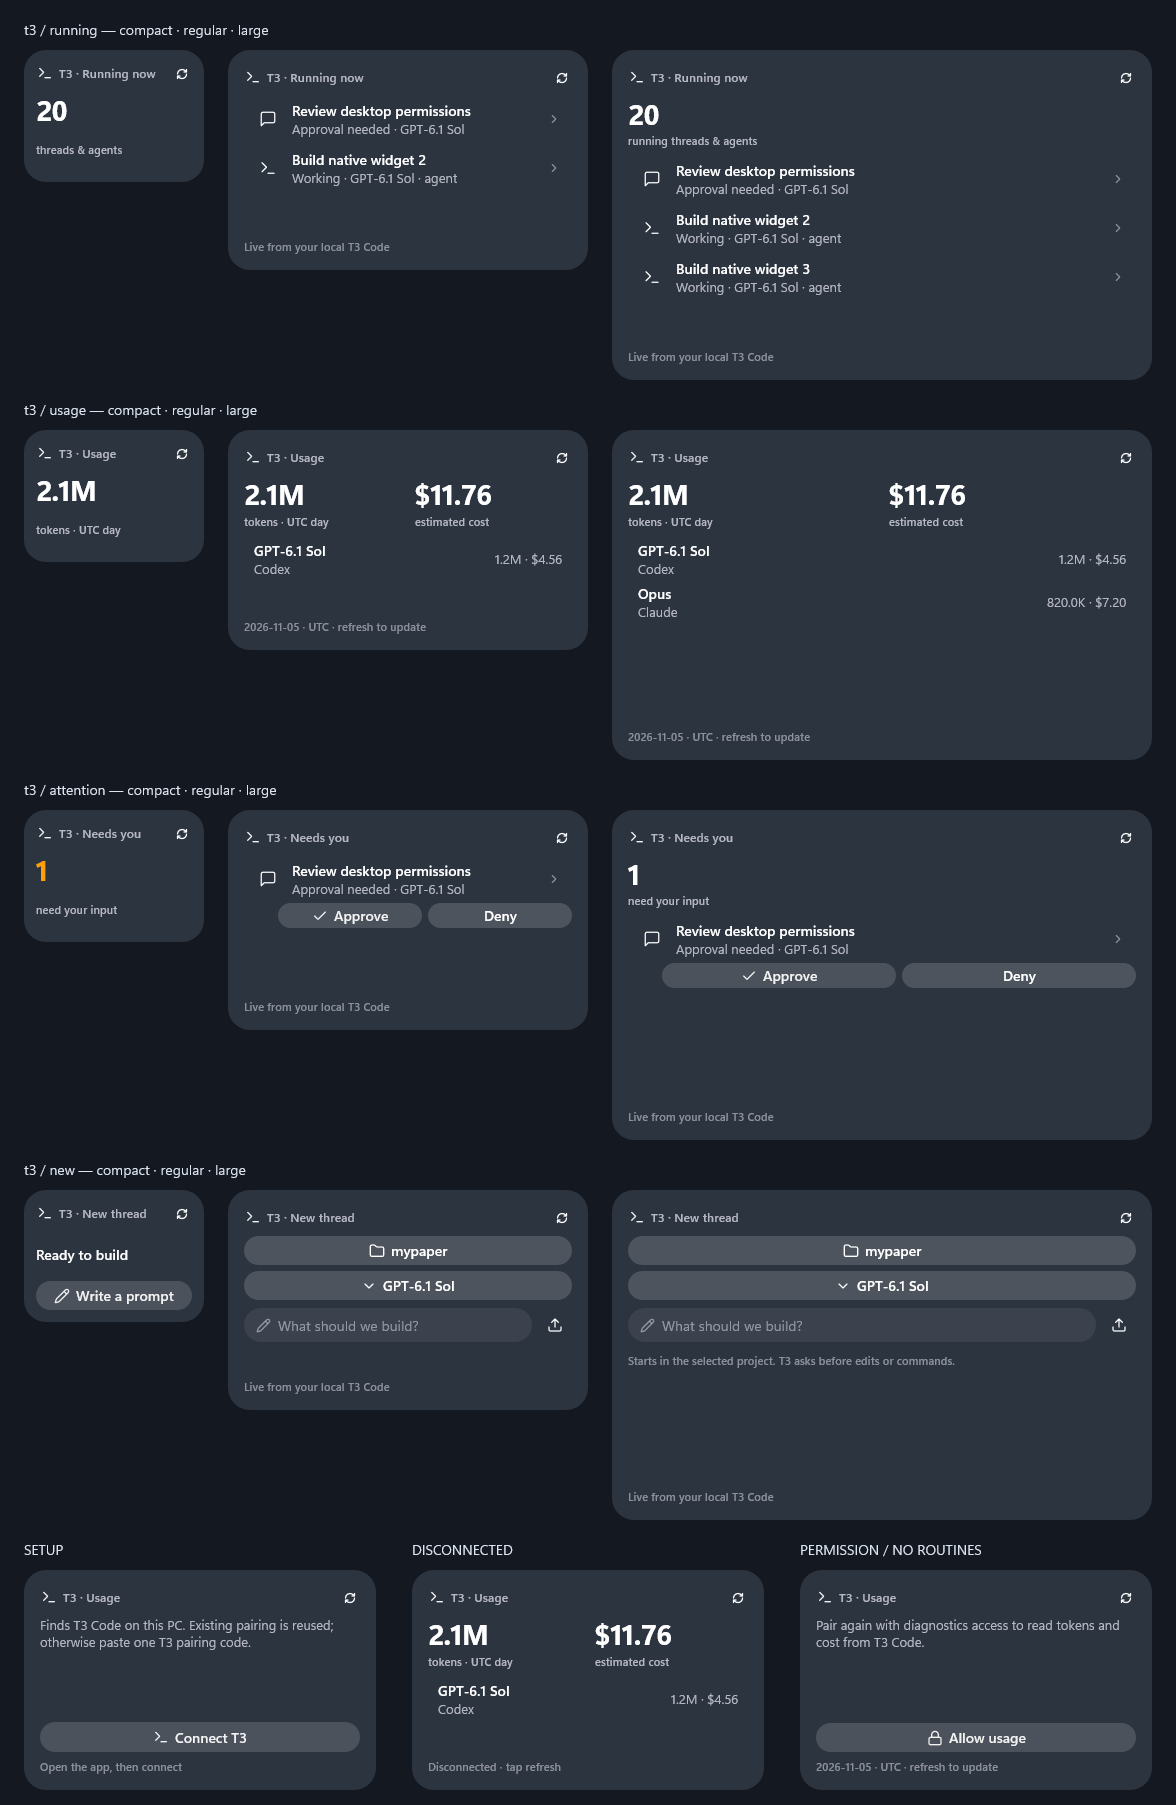
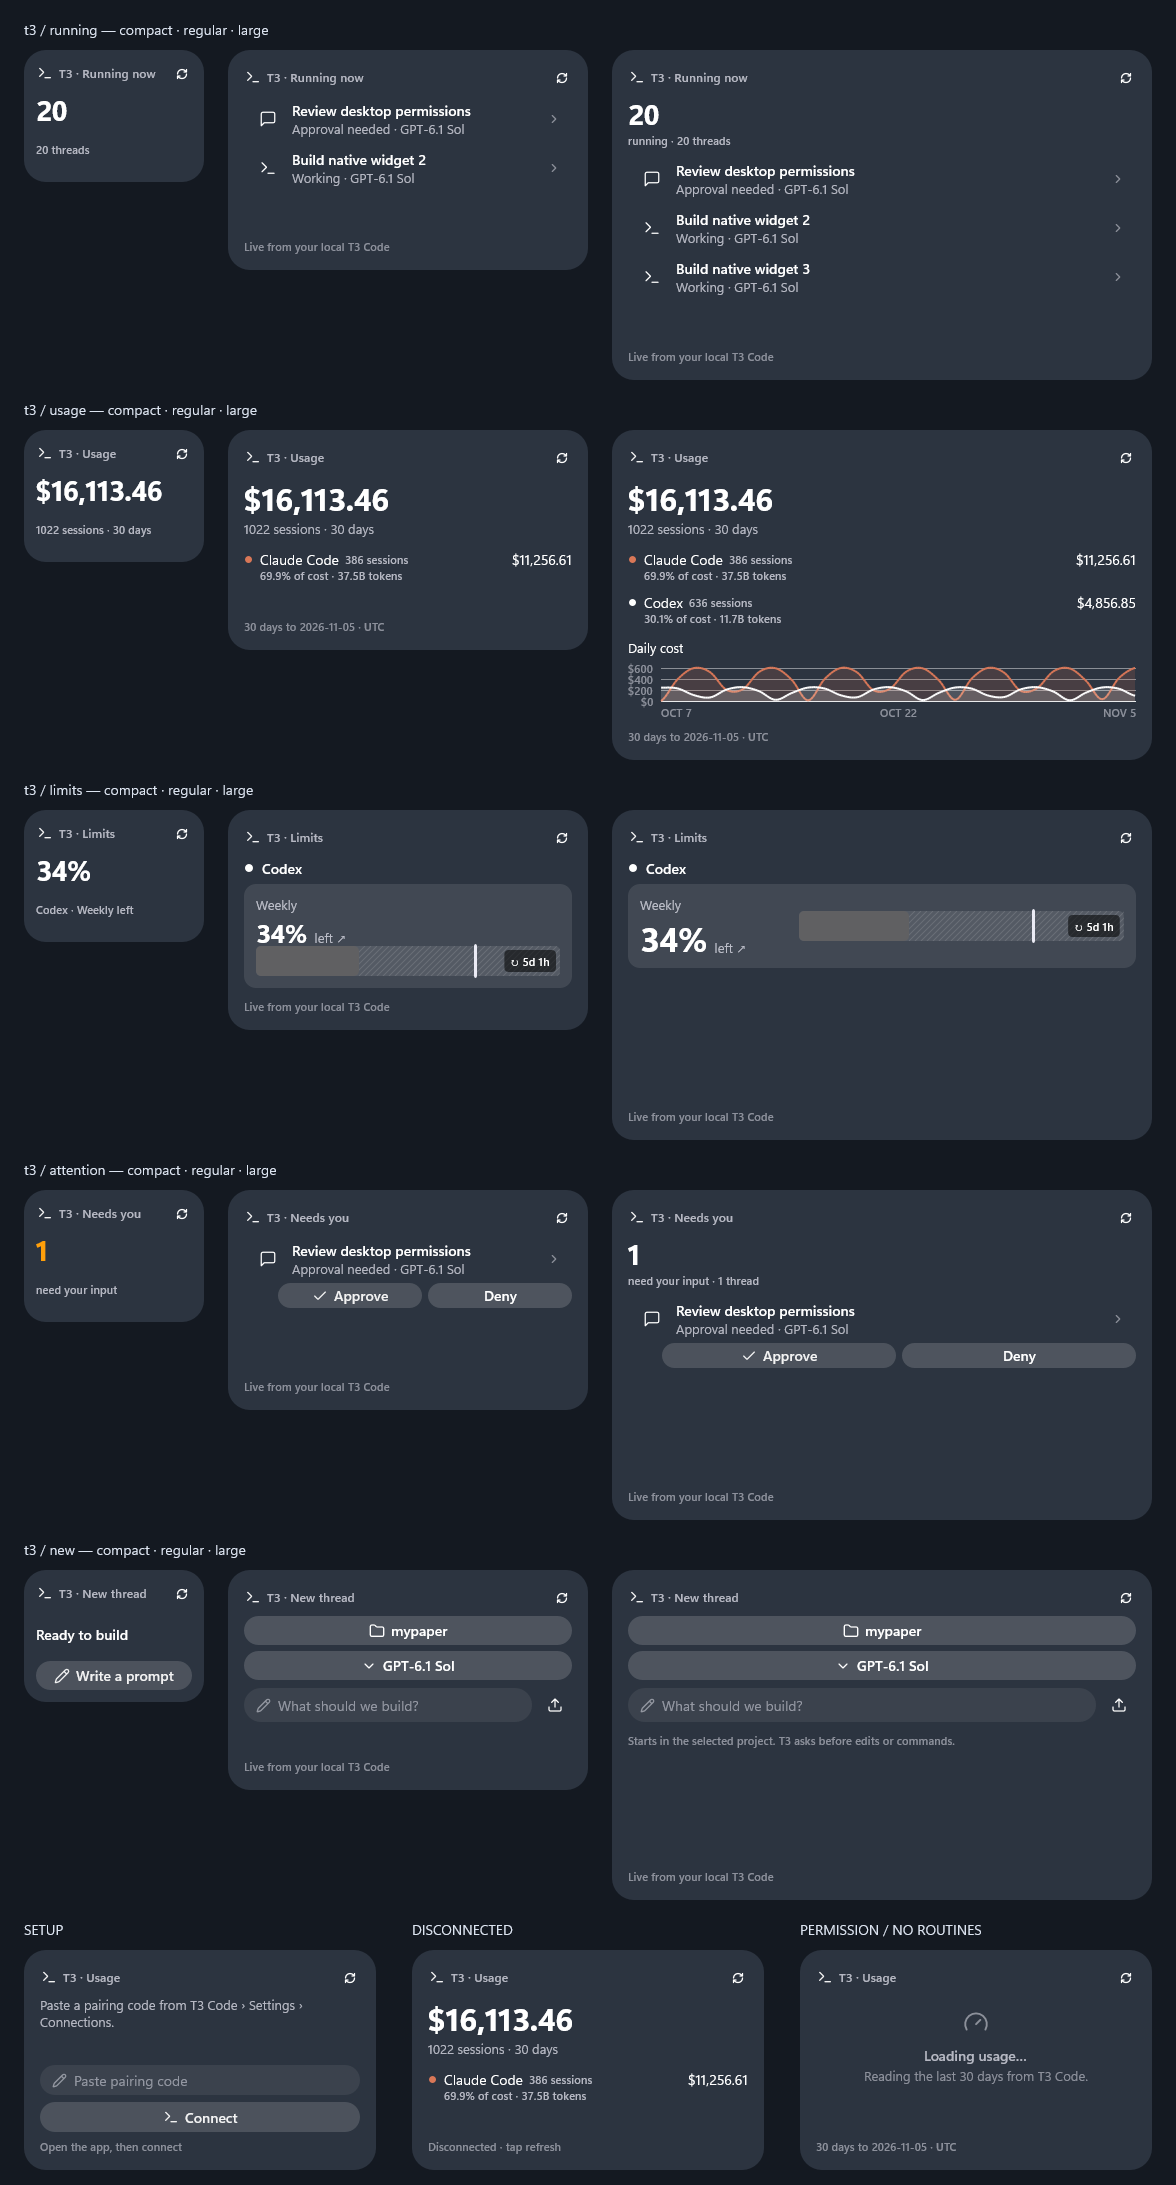
test(t3): sheet covers Usage with 30-day history and the Limits face; usage list stops above the footer

diff --git a/crates/shell/src/widgets/views/integrations/t3_tests.rs b/crates/shell/src/widgets/views/integrations/t3_tests.rs
@@ -101,6 +101,17 @@ fn fixture(id: &str, variant: &str) -> Model {
                     },
                 ]),
                 usage_day: Some("2026-11-05".into()),
+                history: Some(history()),
+                limits: vec![t3::Limit {
+                    driver: "codex".into(),
+                    provider: "Codex".into(),
+                    instance: "codex".into(),
+                    account: "alex@example.test".into(),
+                    window: "Weekly".into(),
+                    used_permille: 660,
+                    resets_at: Some("2026-11-10T12:00:00.000Z".into()),
+                    duration_mins: Some(7 * 24 * 60),
+                }],
                 ..Default::default()
             }))
         } else {
@@ -146,6 +157,42 @@ fn fixture(id: &str, variant: &str) -> Model {
         ];
     }
     model
+}
+
+/// 30 days of two providers' cost and tokens, shaped like a real usage summary.
+fn history() -> t3::History {
+    let days: Vec<String> = (7..=31)
+        .map(|d| format!("2026-10-{d:02}"))
+        .chain((1..=5).map(|d| format!("2026-11-{d:02}")))
+        .collect();
+    let wave = |phase: f64, scale: f64| -> Vec<u64> {
+        (0..30)
+            .map(|i| ((f64::from(i) * 0.7 + phase).sin().abs() * scale) as u64)
+            .collect()
+    };
+    t3::History {
+        days,
+        providers: vec![
+            t3::ProviderHistory {
+                provider: "claudeAgent".into(),
+                cost: wave(0.0, 600_000_000.0),
+                tokens: wave(0.0, 2_000_000_000.0),
+                sessions: 386,
+            },
+            t3::ProviderHistory {
+                provider: "codex".into(),
+                cost: wave(1.3, 250_000_000.0),
+                tokens: wave(1.3, 600_000_000.0),
+                sessions: 636,
+            },
+        ],
+        uncached: 261_000_000,
+        cached: 72_300_000_000,
+        cache_write: 685_000_000,
+        output: 201_000_000,
+        savings_microusd: 271_003_400_000,
+        cost_by_type: [0; 4],
+    }
 }
 
 fn draw(ui: &mut Ui, model: &Model, size: (u32, u32), scale: f32) -> DisplayList {
@@ -231,6 +278,7 @@ fn sheet(ui: &mut Ui, id: &str, variants: &[&str]) -> Image {
         } else {
             if let Some(Data::T3(state)) = &mut m.integration.snapshot.data {
                 state.usage = None;
+                state.history = None;
                 state.permissions.clear();
             }
             m.integration.routines.clear();
@@ -244,7 +292,7 @@ fn sheet(ui: &mut Ui, id: &str, variants: &[&str]) -> Image {
 fn t3_grok_dense_sizes_and_sheets() {
     let mut ui = Ui::new().unwrap();
     for (id, variants) in [
-        ("t3", &["running", "usage", "attention", "new"][..]),
+        ("t3", &["running", "usage", "limits", "attention", "new"][..]),
         ("grok", &["routines", "recent", "prompt"][..]),
     ] {
         for variant in variants {

diff --git a/crates/shell/src/widgets/views/integrations/t3_usage.rs b/crates/shell/src/widgets/views/integrations/t3_usage.rs
@@ -119,7 +119,7 @@ pub(super) fn view(f: &mut Frame<'_>, state: &Snapshot, l: &Areas) {
     let list_end = if wide {
         summary.bottom
     } else {
-        y + row_h * providers.len().min(3) as f32
+        (y + row_h * providers.len().min(3) as f32).min(l.body.bottom)
     };
     for (p, p_cost, tokens) in &providers {
         if y + row_h > list_end + 1.0 {
